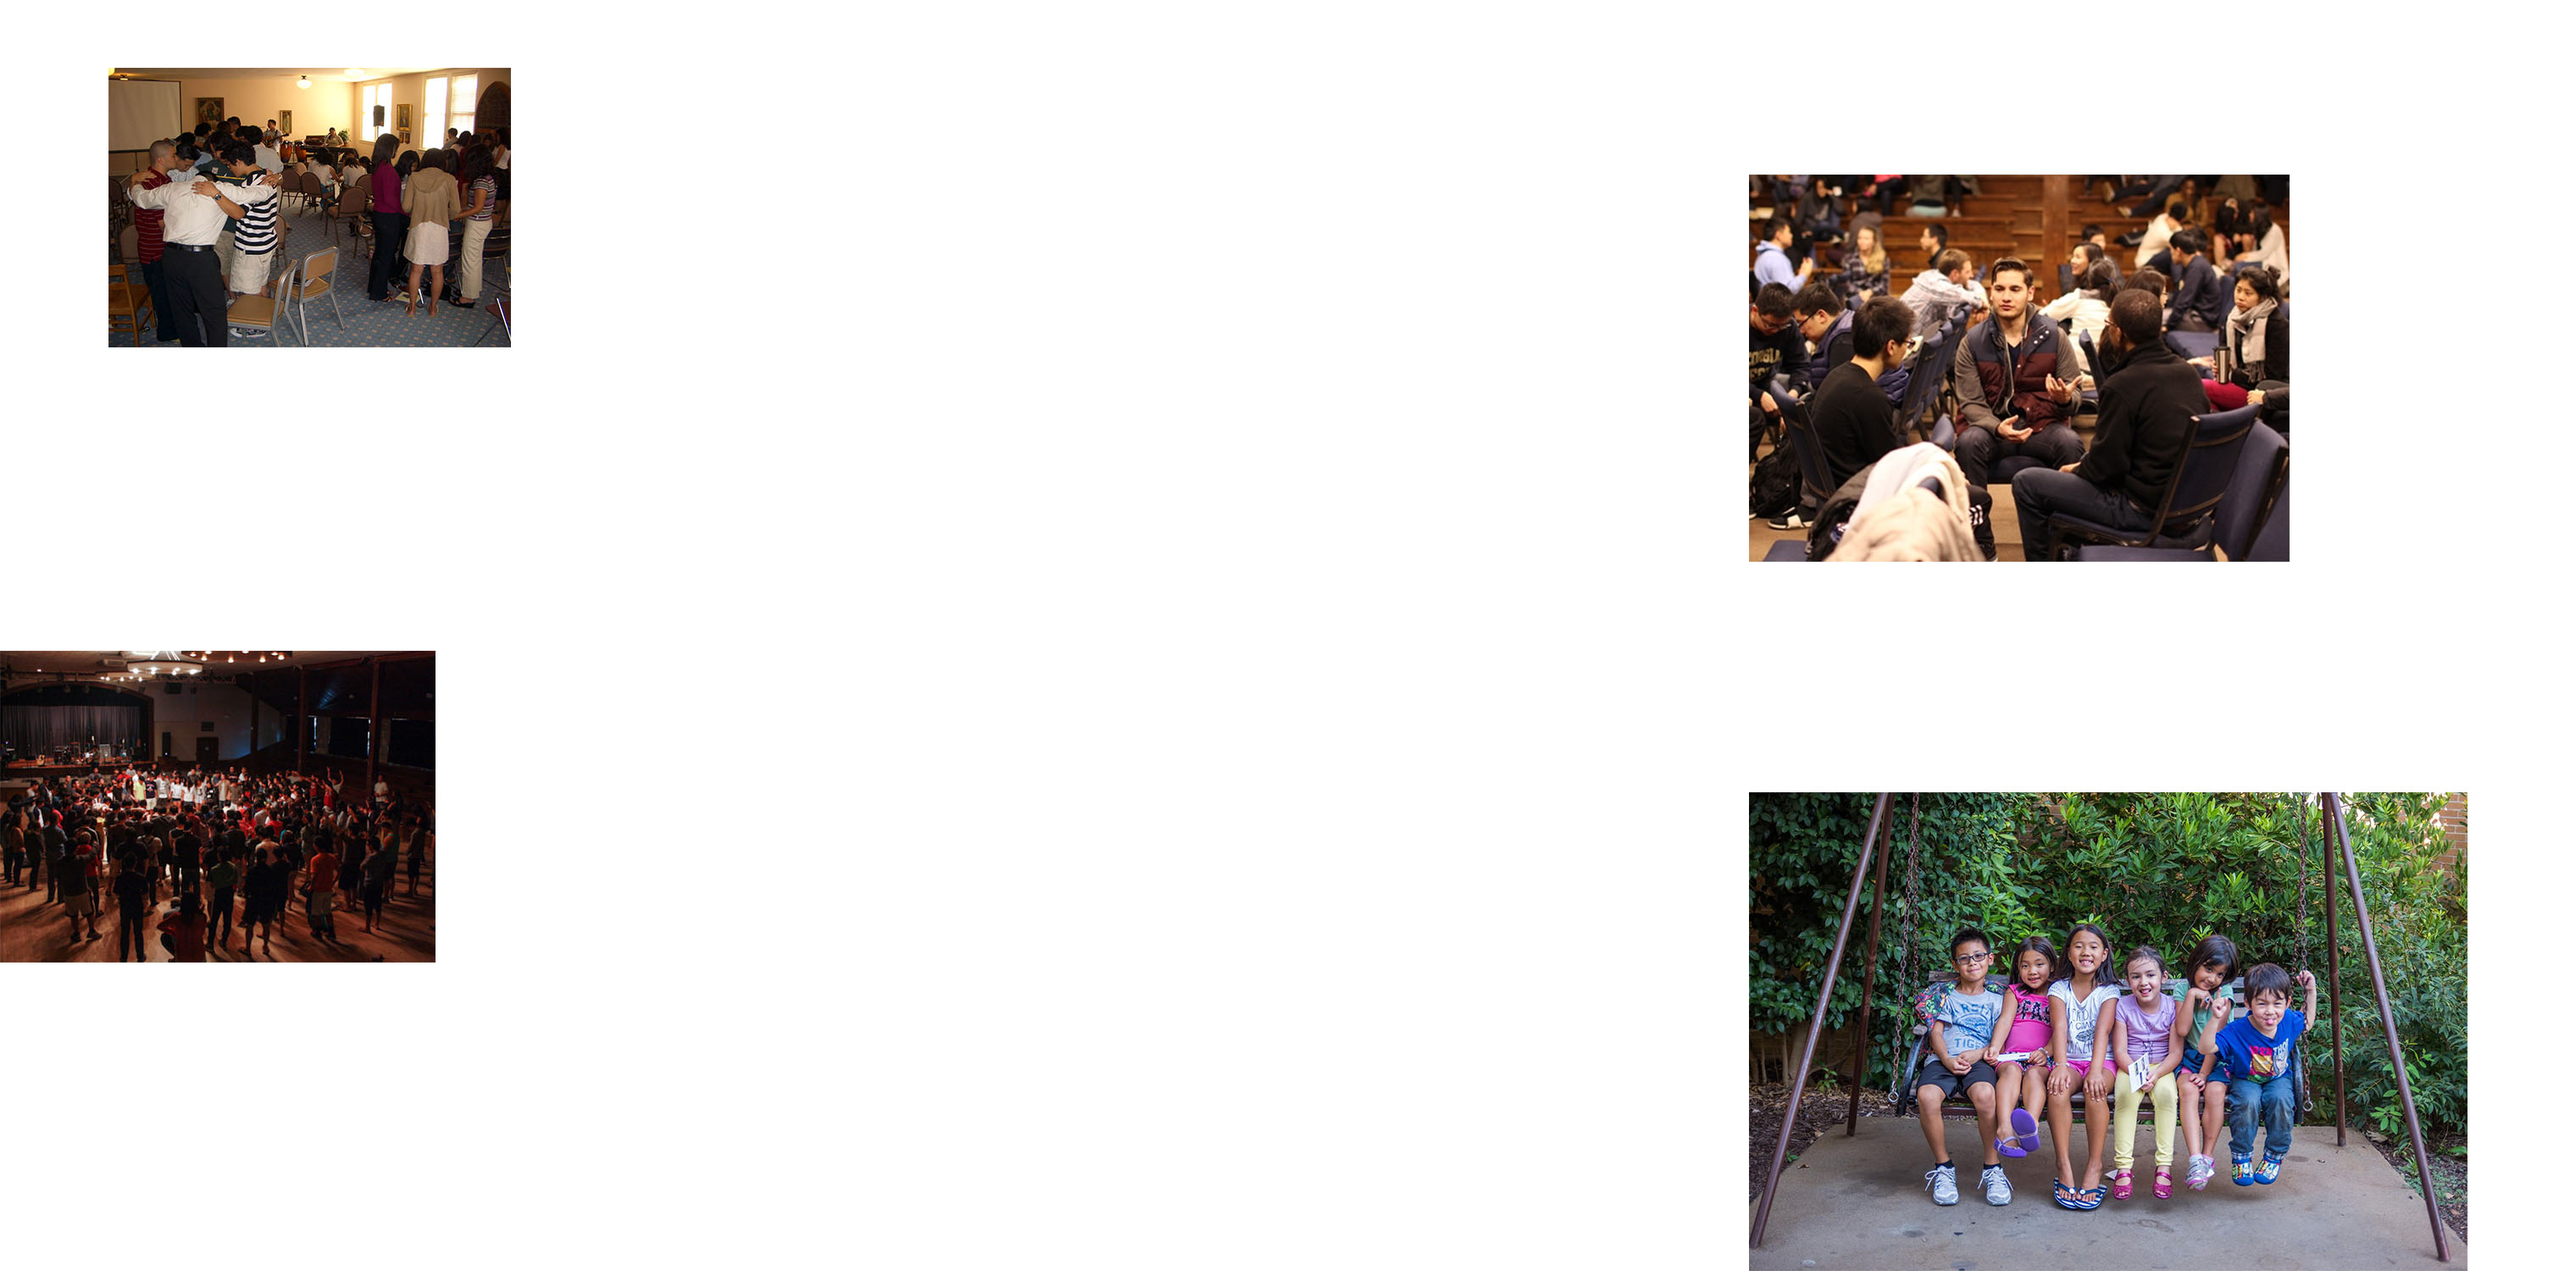
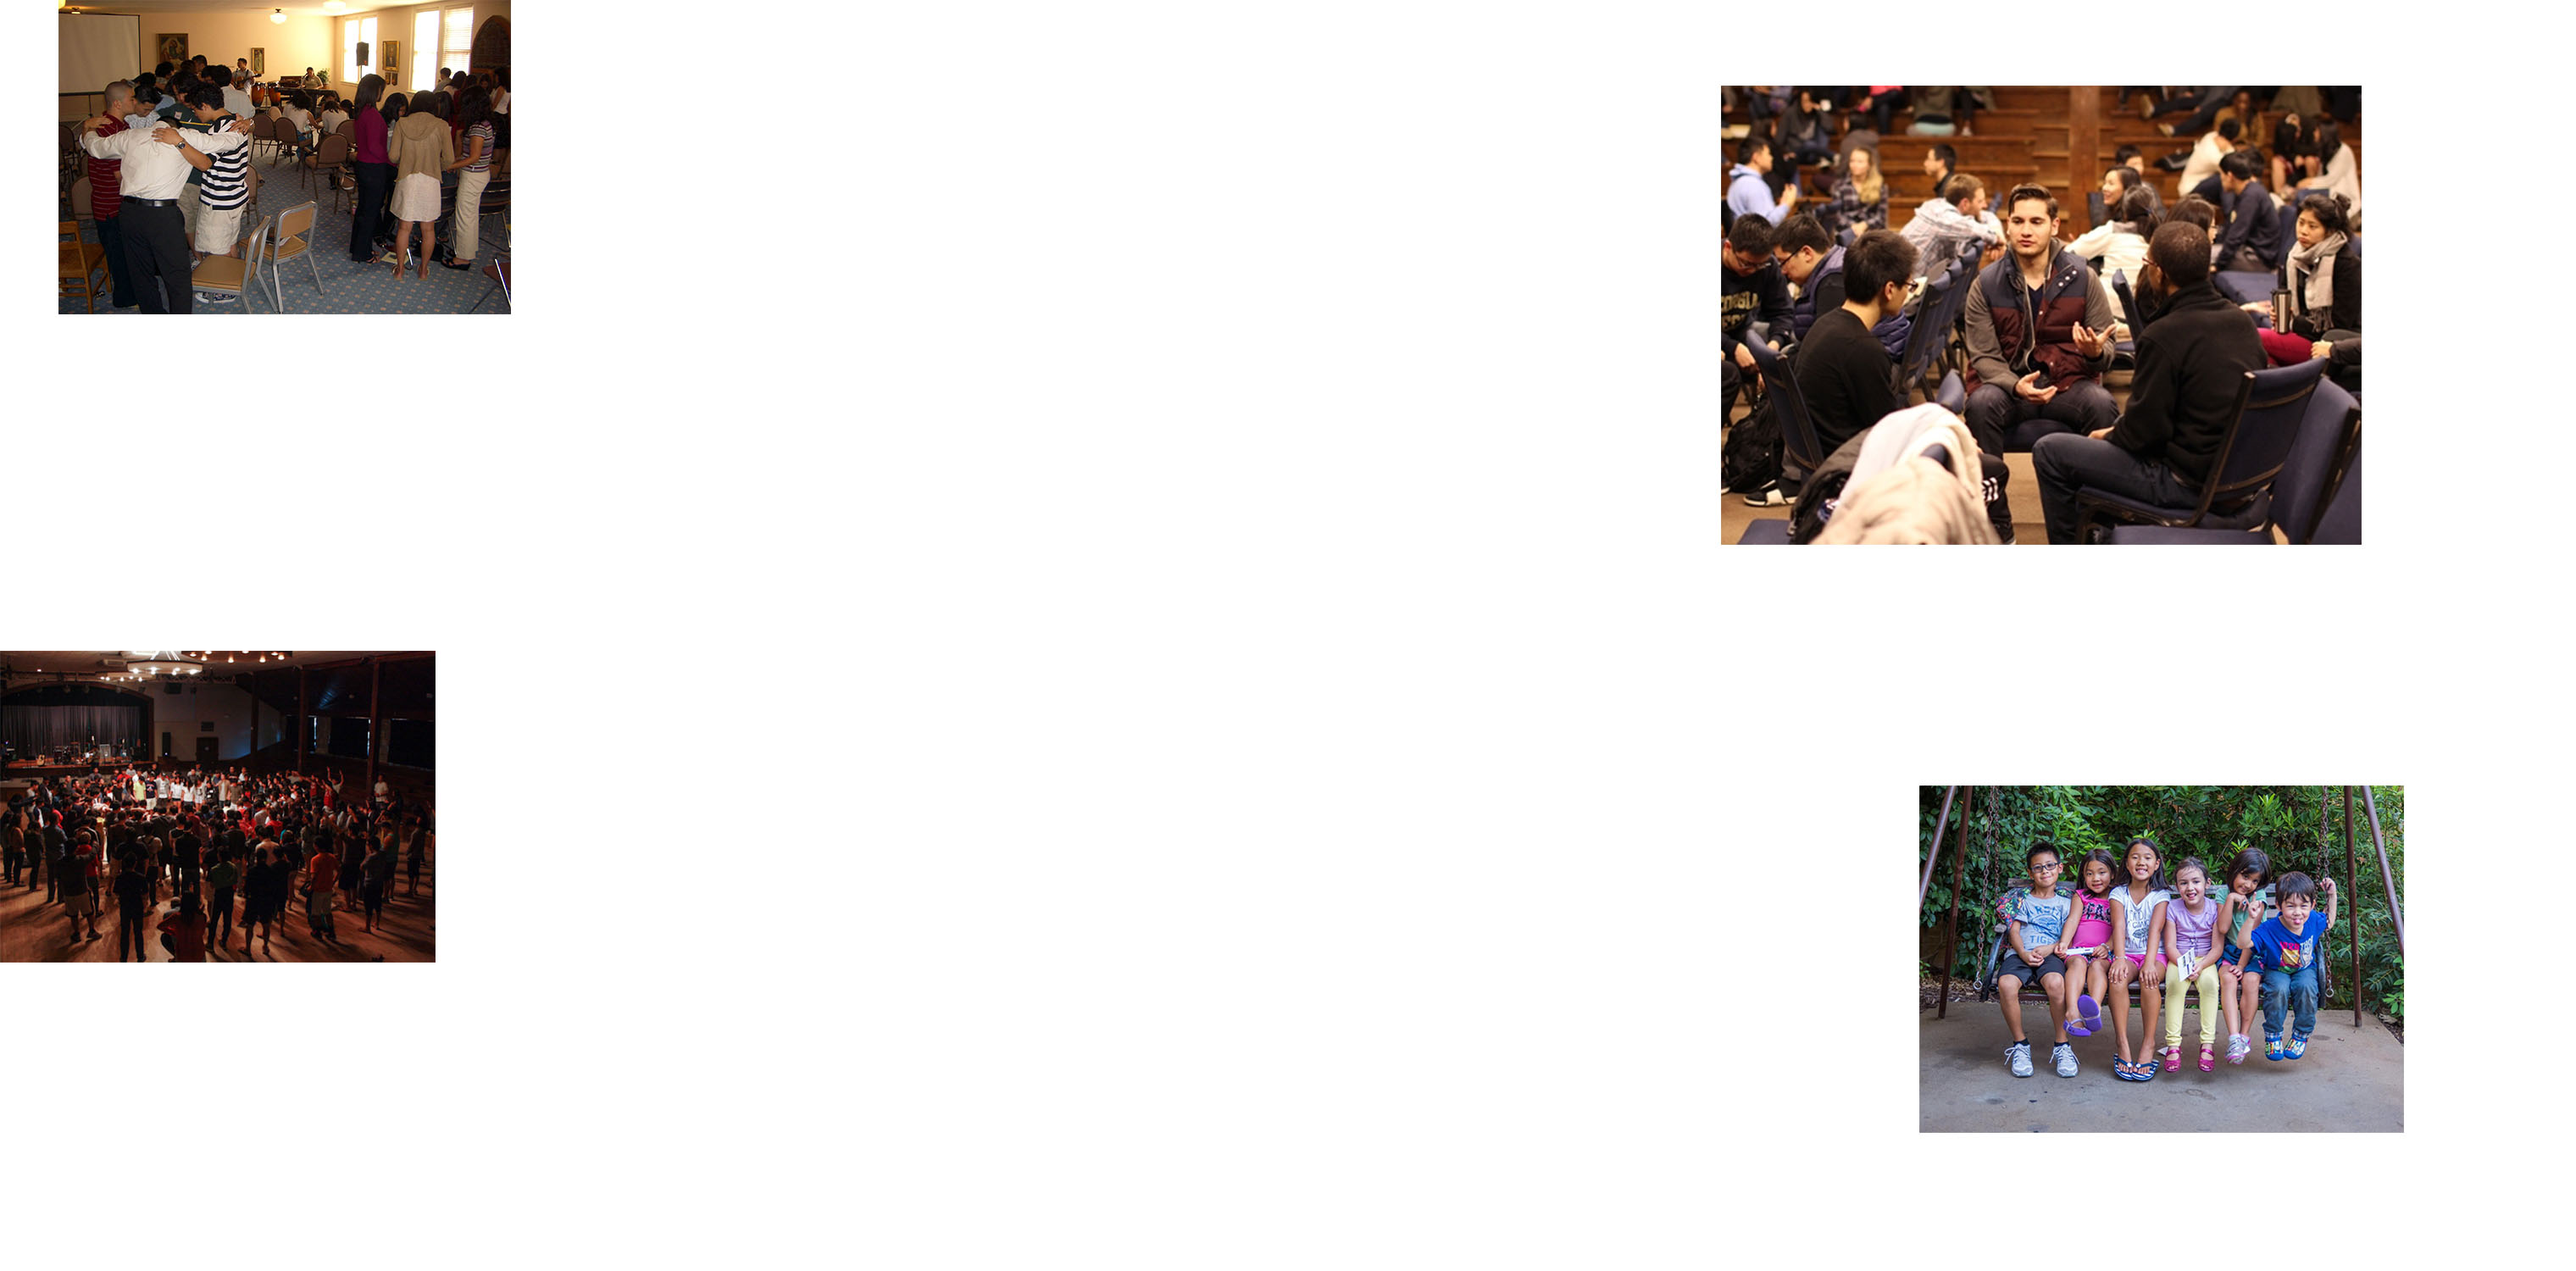
updates

Changed region(s): [[0.6562, 0.6133, 0.9688, 1.0], [0.6562, 0.0613, 0.9375, 0.46], [0.0, 0.0, 0.2188, 0.276]]

diff --git a/story.html b/story.html
@@ -64,36 +64,36 @@
 	}
 
 	.full_container#story_block_1 {
-		background: url('images/story1.jpg') no-repeat top center;
+		background: url('images/story1.jpg') no-repeat center center;
 		-webkit-background-size: contain;
 		-moz-background-size: contain;
 		-o-background-size: contain;
 		background-size: 100% auto;
 		position: relative;
 		float: left;
-		padding: 100px 0 50px 0;
+		padding: 10vw 0 5vw 0;
 	}
 
 	.full_container#story_block_2 {
-		background: url('images/story3.JPG') no-repeat top center;
+		background: url('images/story3.JPG') no-repeat center center;
 		-webkit-background-size: contain;
 		-moz-background-size: contain;
 		-o-background-size: contain;
 		background-size: 100% auto;
 		position: relative;
 		float: left;
-		padding: 100px 0 100px 0;
+		padding: 5vw 0 5vw 0;
 	}
 
 	.full_container#story_block_3 {
-		background: url('images/story2.jpg') no-repeat top center;
+		background: url('images/story2.jpg') no-repeat center center;
 		-webkit-background-size: contain;
 		-moz-background-size: contain;
 		-o-background-size: contain;
 		background-size: 100% auto;
 		position: relative;
 		float: left;
-		padding: 100px 0 200px 0;
+		padding: 5vw 0 200px 0;
 	}
 
 
